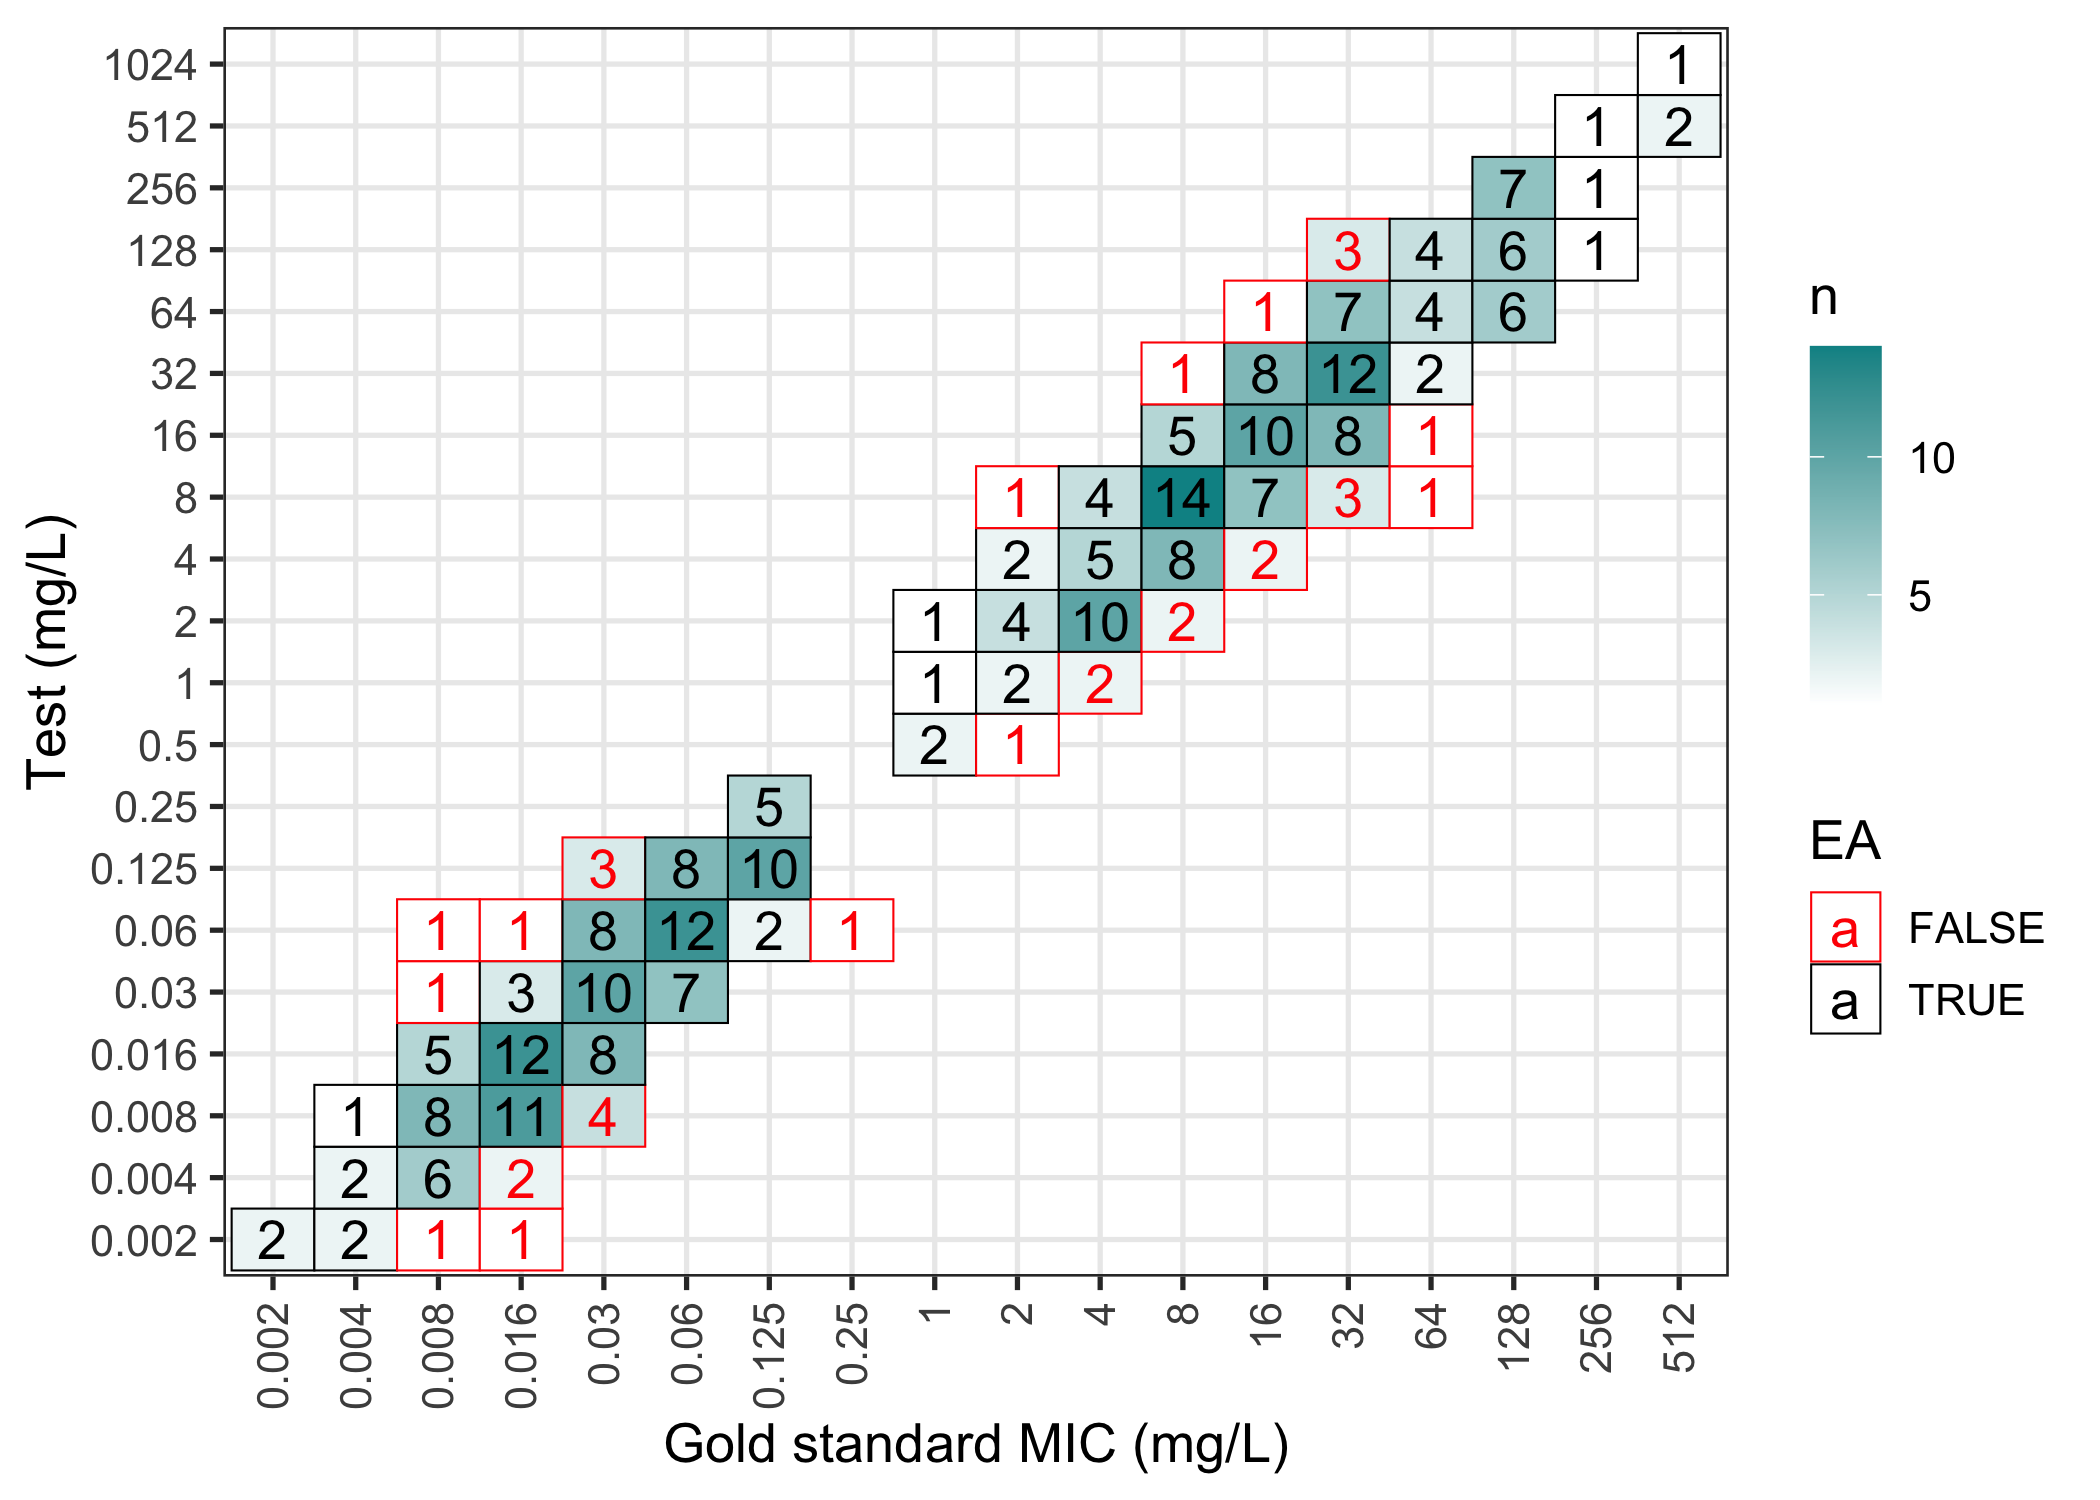
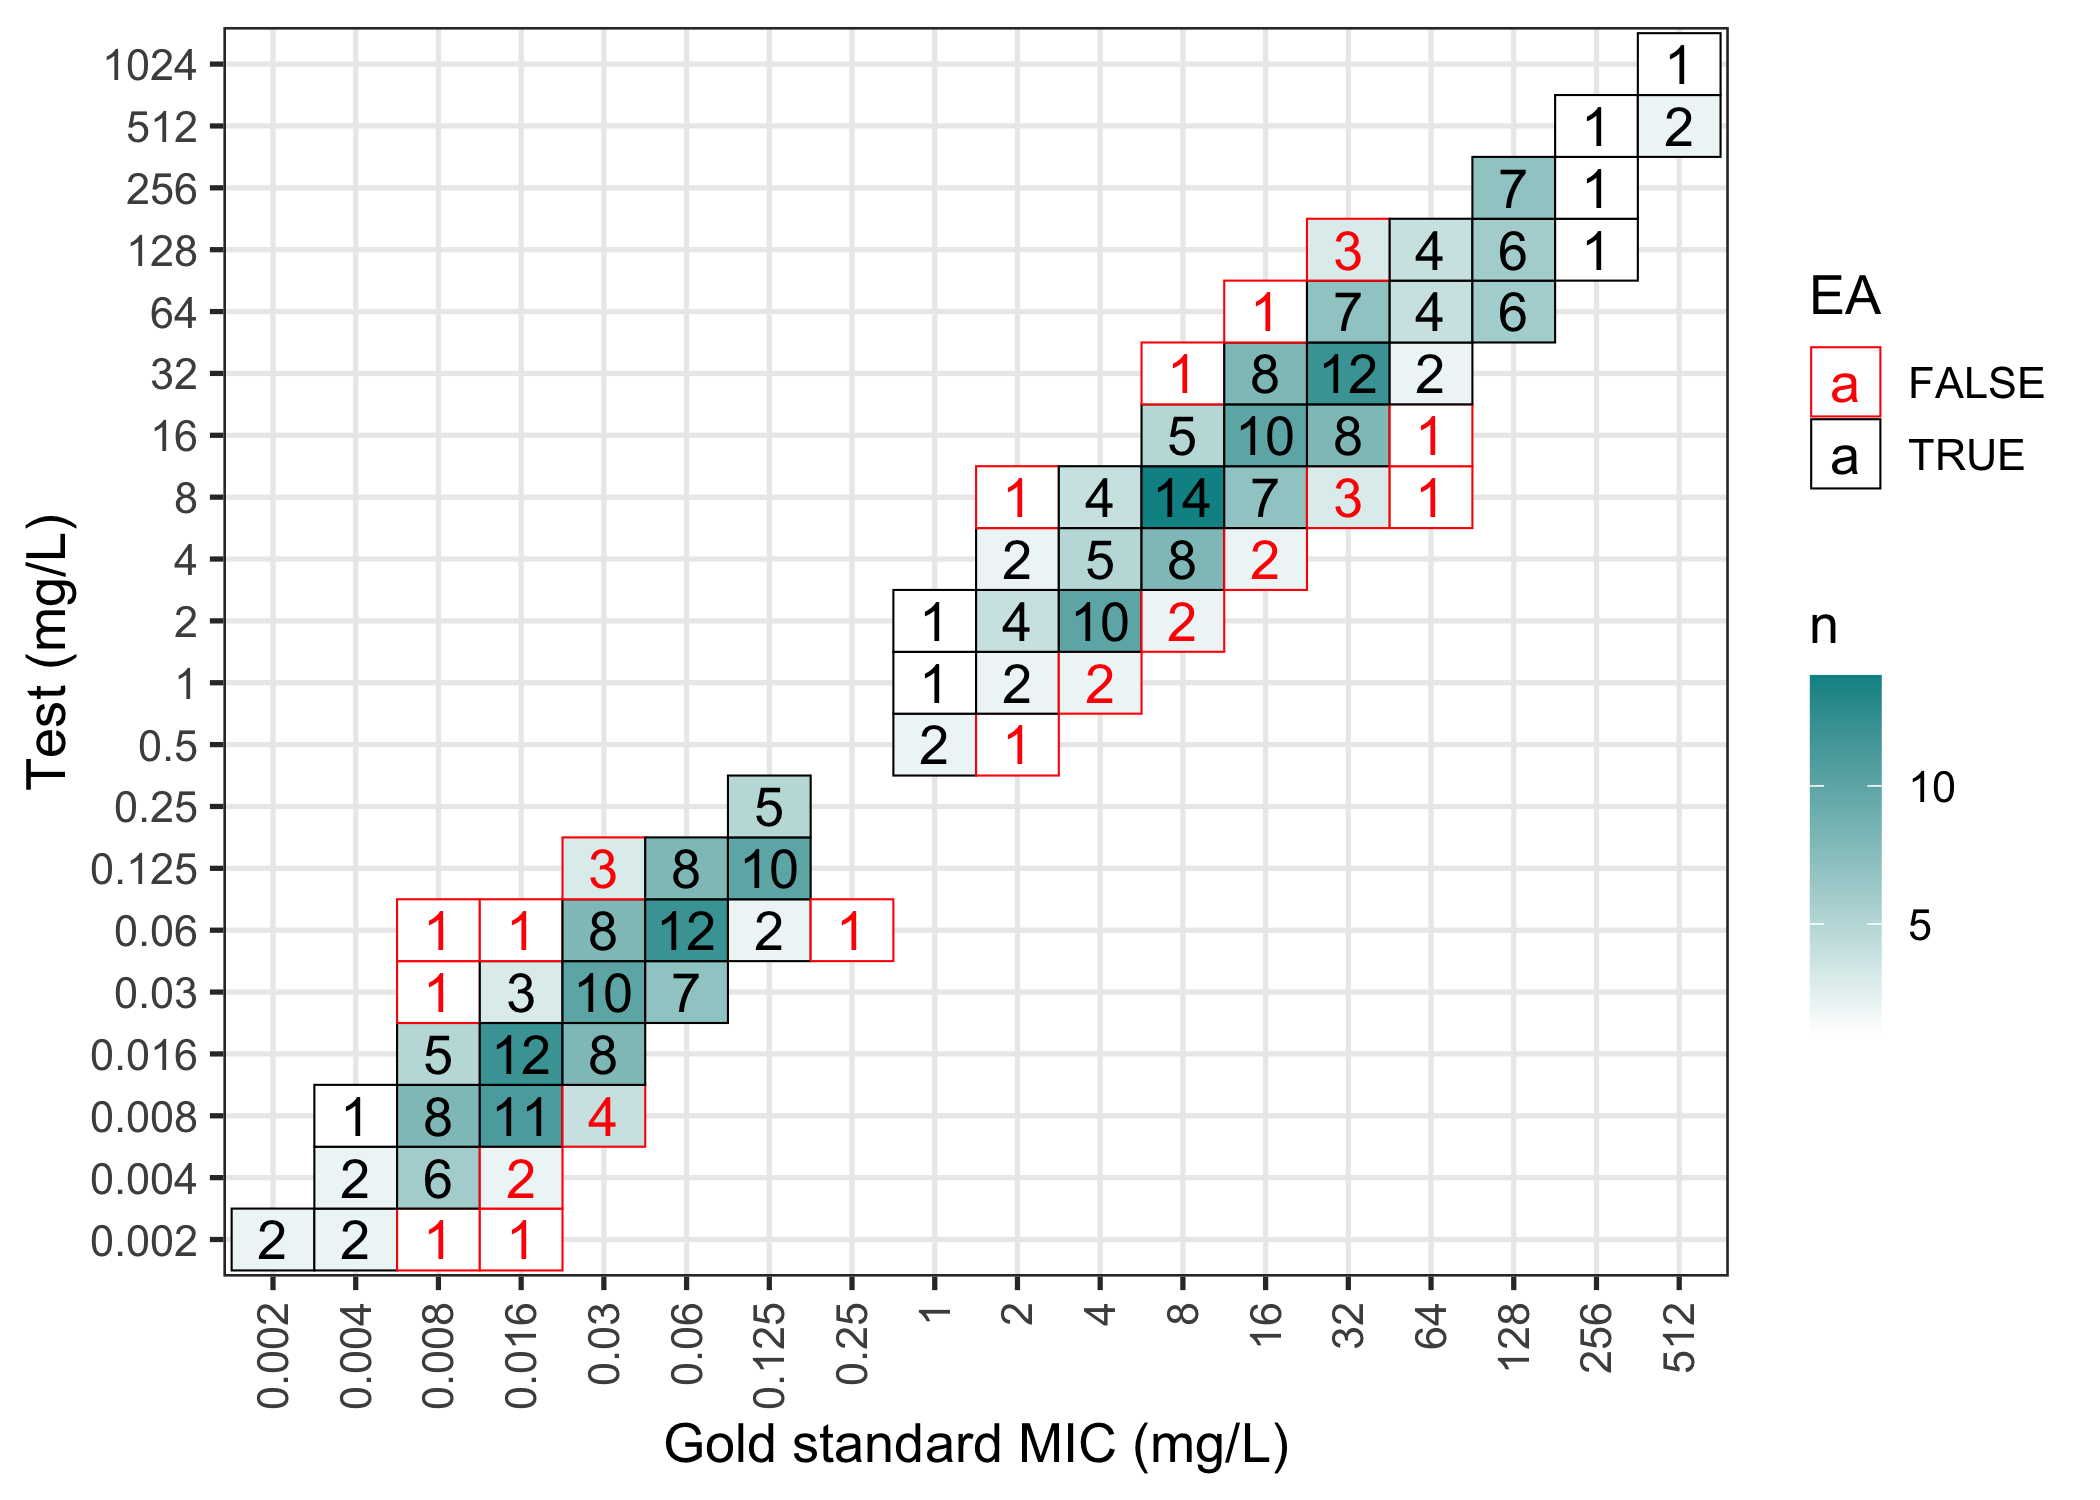
Readme update

Changed region(s): [[0.8357, 0.184, 0.9905, 0.7053]]

diff --git a/README.md b/README.md
@@ -8,23 +8,6 @@
 [![R-CMD-check](https://github.com/agerada/MIC/actions/workflows/R-CMD-check.yaml/badge.svg)](https://github.com/agerada/MIC/actions/workflows/R-CMD-check.yaml)
 <!-- badges: end -->
 
-## Important updates
-
-As of version 2.0.0 the MIC package has being refocused to provide
-MIC-specific analysis and validation utilities. Genomics-related
-functions (PATRIC download helpers, genome -\> $k$-mer conversion,
-$k$-mer utilities, and similar) have been ported to a new package,
-[`faLearn`](https://github.com/agerada/faLearn).
-
-To continue using these functions, simply install and load the `faLearn`
-package alongside `MIC`:
-
-``` r
-# install.packages("remotes")
-remotes::install_github("agerada/faLearn")
-library(faLearn)
-```
-
 ## Introduction
 
 `MIC` is an R package for the analysis of minimum inhibitory
@@ -32,9 +15,7 @@ concentration (MIC) data. The package was designed to be compatible with
 the [`AMR`](https://amr-for-r.org/), in particular most of the functions
 in `MIC` are designed to accept and return `AMR` objects, such as `mic`
 and `sir`. The primary functions in `MIC` are designed towards
-validation studies of minimum inhibitory concentrations, however it also
-can (optionally) be used to support the construction of machine learning
-models that predict MIC values from genomic data.
+validation studies of minimum inhibitory concentrations.
 
 ## Features
 
@@ -44,14 +25,6 @@ models that predict MIC values from genomic data.
 - Plots and tables can be generated from validation experiments.
 - Quality control analysis of MIC experiments.
 - Functions to deal with censoring in MIC data.
-- Helper functions to download whole genome sequencing data and
-  susceptibility metadata from the
-  [PATRIC](https://www.bv-brc.org/docs/system_documentation/data.html)
-  database at BV-BRC.
-- Conversion of whole genome sequence data (assembled .fna files) to
-  k-mer based features for machine learning models.
-- Fast k-mer counting using C++ and `Rcpp`.
-- K-mer features stored in `XGBoost`-compatible `libsvm` format.
 
 ## Installation
 
@@ -82,6 +55,7 @@ library(MIC)
 #> 
 #>     table
 library(AMR)
+#> Warning: package 'AMR' was built under R version 4.5.2
 ```
 
 To compare two `mic` vectors (e.g., one from a gold standard and one
@@ -128,7 +102,7 @@ of minor, major, and very major errors:
 
 ``` r
 val <- compare_mic(gold_standard = example_mics$gs, test = example_mics$test,
-                   mo = example_mics$mo, ab = example_mics$ab)
+                   mo = example_mics$mo, ab = example_mics$ab, accept_ecoff = TRUE)
 val
 #> MIC validation object with 300 observations
 #> Agreement type: essential and categorical
@@ -160,19 +134,19 @@ results:
 ``` r
 head(as.data.frame(val))
 #>   gold_standard  test essential_agreement  ab           mo gold_standard_sir
-#> 1         0.002 0.002                TRUE GEN B_ESCHR_COLI                 S
-#> 2         0.004 0.002                TRUE GEN B_ESCHR_COLI                 S
-#> 3             8    16                TRUE GEN B_ESCHR_COLI                 R
-#> 4         0.008 0.016                TRUE GEN B_ESCHR_COLI                 S
-#> 5            64    64                TRUE GEN B_ESCHR_COLI                 R
-#> 6          0.06  0.06                TRUE GEN B_ESCHR_COLI                 S
+#> 1         0.002 0.002                TRUE GEN B_ESCHR_COLI                WT
+#> 2         0.004 0.002                TRUE GEN B_ESCHR_COLI                WT
+#> 3             8    16                TRUE GEN B_ESCHR_COLI               NWT
+#> 4         0.008 0.016                TRUE GEN B_ESCHR_COLI                WT
+#> 5            64    64                TRUE GEN B_ESCHR_COLI               NWT
+#> 6          0.06  0.06                TRUE GEN B_ESCHR_COLI                WT
 #>   test_sir error
-#> 1        S  <NA>
-#> 2        S  <NA>
-#> 3        R  <NA>
-#> 4        S  <NA>
-#> 5        R  <NA>
-#> 6        S  <NA>
+#> 1       WT  <NA>
+#> 2       WT  <NA>
+#> 3      NWT  <NA>
+#> 4       WT  <NA>
+#> 5      NWT  <NA>
+#> 6       WT  <NA>
 ```
 
 The results of an `mic_validation` can be plotted in a confusion matrix
@@ -182,7 +156,7 @@ The results of an `mic_validation` can be plotted in a confusion matrix
 plot(val)
 ```
 
-<img src="man/figures/README-fig-val-ea-1.png" width="100%" />
+<img src="man/figures/README-fig-val-ea-1.png" alt="" width="100%" />
 
 The plot can also be faceted by antimicrobial:
 
@@ -190,7 +164,7 @@ The plot can also be faceted by antimicrobial:
 plot(val, facet_wrap_ncol = 1)
 ```
 
-<img src="man/figures/README-unnamed-chunk-8-1.png" width="100%" />
+<img src="man/figures/README-unnamed-chunk-8-1.png" alt="" width="100%" />
 
 The `table` function can be used to generate a table of the results:
 
@@ -201,4 +175,4 @@ mem_val <- compare_mic(gold_standard = mem_dat$gs, test = mem_dat$test)
 table(mem_val)
 ```
 
-<img src="man/figures/README-unnamed-chunk-9-1.png" width="100%" />
+<img src="man/figures/README-unnamed-chunk-9-1.png" alt="" width="100%" />
